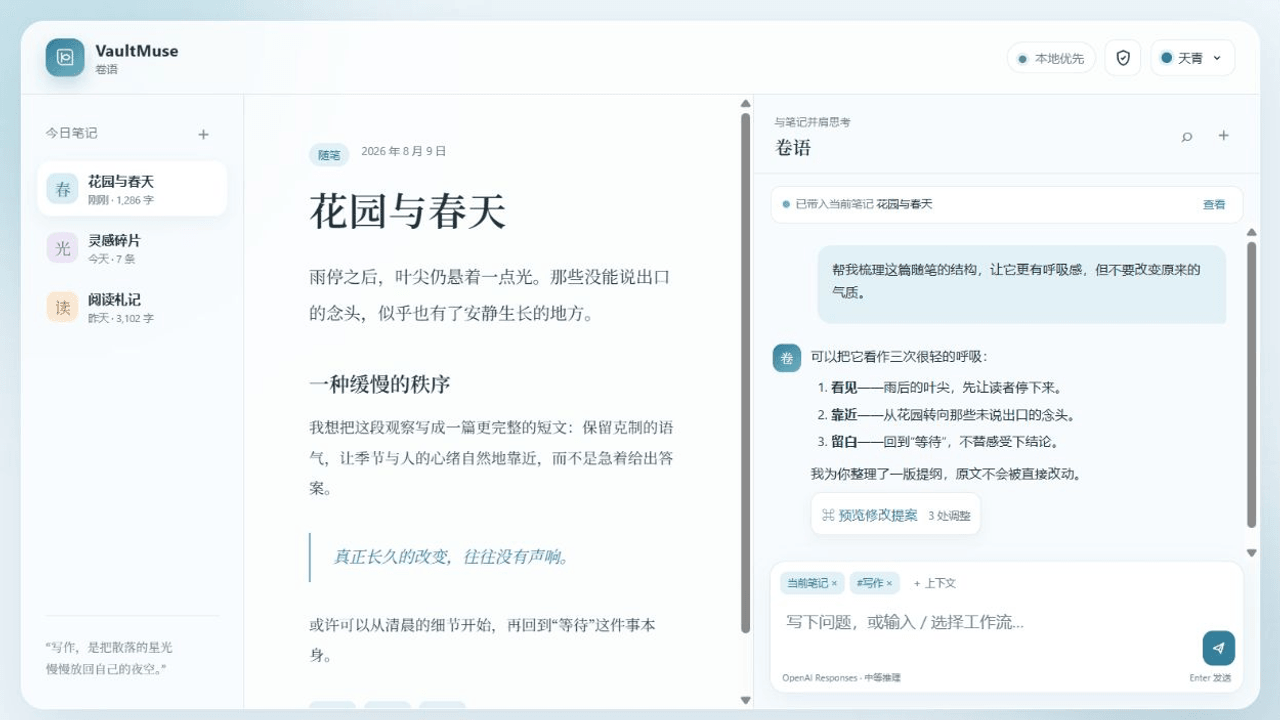
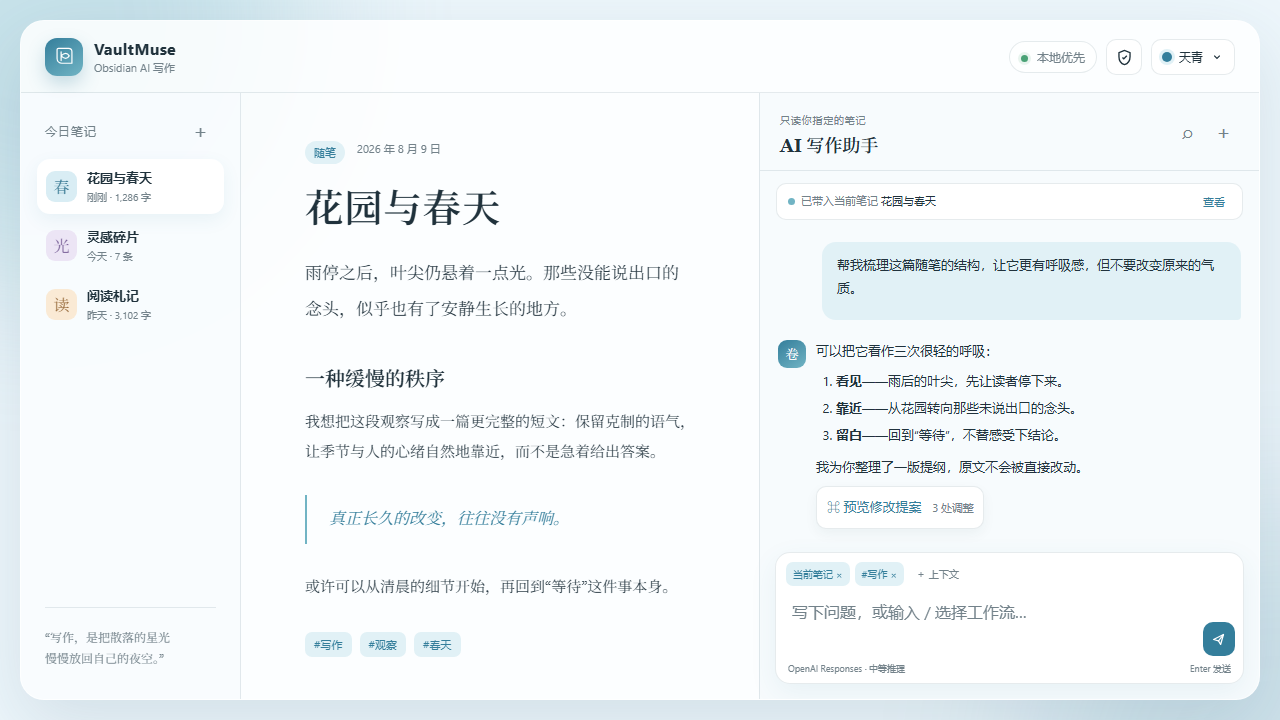
docs: 重写全部面向读者的文案（主页、README、文档措辞与命名）

diff --git a/demo/index.html b/demo/index.html
@@ -6,7 +6,7 @@
     <meta name="description" content="VaultMuse — 在笔记与灵感之间，让 AI 成为克制、透明的同行者。" />
     <meta name="color-scheme" content="light dark" />
     <meta http-equiv="Content-Security-Policy" content="default-src 'self'; script-src 'self'; style-src 'self'; img-src 'self'; connect-src 'none'; object-src 'none'; base-uri 'none'; form-action 'none'" />
-    <title>VaultMuse · 卷语</title>
+    <title>Obsidian AI 写作助手 · 演示</title>
     <link rel="icon" href="./favicon.svg" type="image/svg+xml" />
     <link rel="icon" href="./favicon.ico" sizes="any" />
     <link rel="apple-touch-icon" href="./apple-touch-icon.png" />
@@ -21,7 +21,7 @@
           <span class="brand-mark" aria-hidden="true">
             <svg viewBox="0 0 40 40"><path d="M11 8h15a5 5 0 0 1 5 5v17H16a7 7 0 0 1-7-7V10a2 2 0 0 1 2-2Z"/><path d="M15 13v13m0-7c5-5 9-5 12 0-3 5-7 5-12 0Z"/></svg>
           </span>
-          <span><b>VaultMuse</b><small>卷语</small></span>
+          <span><b>VaultMuse</b><small>Obsidian AI 写作</small></span>
         </a>
         <div class="top-actions">
           <span class="privacy-pill"><i></i> 本地优先</span>
@@ -67,7 +67,7 @@
 
         <section class="chat-panel" aria-label="AI 对话演示">
           <div class="chat-head">
-            <div><small>与笔记并肩思考</small><h2>卷语</h2></div>
+            <div><small>只读你指定的笔记</small><h2>AI 写作助手</h2></div>
             <div class="chat-actions"><button title="对话历史" aria-label="对话历史">⌕</button><button title="新对话" aria-label="新对话">＋</button></div>
           </div>
           <div class="context-line"><span class="pulse"></span>已带入当前笔记 <b>花园与春天</b><button id="contextButton">查看</button></div>

diff --git a/README_EN.md b/README_EN.md
@@ -1,50 +1,77 @@
 <div align="center">
 
-# VaultMuse / 卷语 — Obsidian AI Chat & Writing
+# Obsidian AI writer
 
-**A quiet, transparent AI companion between your notes and your next thought.**
+[中文](./README.md) · English
 
-[![CI](https://github.com/ferretgeek/VaultMuse/actions/workflows/ci.yml/badge.svg)](https://github.com/ferretgeek/VaultMuse/actions/workflows/ci.yml)
-[![CodeQL](https://github.com/ferretgeek/VaultMuse/actions/workflows/codeql.yml/badge.svg)](https://github.com/ferretgeek/VaultMuse/actions/workflows/codeql.yml)
+[![CI](https://github.com/ferretgeek/obsidian-ai-writer/actions/workflows/ci.yml/badge.svg)](https://github.com/ferretgeek/obsidian-ai-writer/actions/workflows/ci.yml)
+[![CodeQL](https://github.com/ferretgeek/obsidian-ai-writer/actions/workflows/codeql.yml/badge.svg)](https://github.com/ferretgeek/obsidian-ai-writer/actions/workflows/codeql.yml)
 [![MIT](https://img.shields.io/badge/license-MIT-3f8268.svg)](./LICENSE)
 [![Obsidian](https://img.shields.io/badge/Obsidian-1.8.7%2B-7c5ce7.svg)](https://obsidian.md/)
 
-[简体中文](./README.md) · [Privacy](./docs/PRIVACY.md) · [Install & deploy](./docs/DEPLOYMENT_EN.md) · [Live demo](https://ferretgeek.github.io/VaultMuse/)
+[Live demo](https://ferretgeek.github.io/obsidian-ai-writer/) · [Privacy](./docs/PRIVACY.md) · [Installation](./docs/DEPLOYMENT.md)
 
 </div>
 
-![VaultMuse interface preview](./docs/images/dashboard.png)
+![Interface preview](./docs/images/dashboard.png)
 
-VaultMuse is a desktop Obsidian AI conversation plugin. It reads only the notes, tags, selections, or images you explicitly attach. An answer becomes a reviewable proposal before it can change your vault.
+> Chat with a model over the notes *you* picked. Whatever it wants to change, you see first.
 
-## At a glance
+## Why this exists
 
-- **Visible context** — inspect and remove every item used for the current turn; no whole-vault crawl.
-- **Guarded writing** — insert, append, replace, create, and multi-file diffs require confirmation and offer undo.
-- **Provider freedom** — OpenAI Responses, OpenAI-compatible Chat Completions, Anthropic Messages, and local Ollama.
-- **Sensitive by default** — API keys and custom headers stay memory-only unless you opt in; remote endpoints require HTTPS and unsafe headers are rejected.
-- **A complete workspace** — streaming, collapsible reasoning, images, searchable/pinned/exportable history, slash workflows, and prompt-cache-aware requests.
-- **Four global themes** — Sky, Jade, Sunset, and Graphite; persisted from the top-right picker, with Graphite fixed at `#17191d`.
+Most AI note plugins do two things that make them hard to trust.
 
-## Install
+**They read your whole vault.** You wanted to talk about today's meeting note, and three years of journals, financial tables, and private lists went along as context.
 
-Download `main.js`, `manifest.json`, and `styles.css` from [Releases](https://github.com/ferretgeek/VaultMuse/releases), then place them in:
+**They edit your files directly.** You asked it to tidy up a paragraph and came back to a rewritten note with no diff to review.
+
+This plugin inverts both.
+
+**You choose the context.** These notes, this tag, this selection, this image — every item is listed beside the conversation and can be removed at any time. **It never scans the vault.**
+
+**Write-back has a gate.** Insert, append, overwrite, create, and multi-file edits all show a diff first and only land after you confirm. Mistakes are undoable, and deletions go to Obsidian's trash rather than being destroyed.
+
+## What it does
+
+- **Transparent context** — everything used this turn is visible and removable, item by item.
+- **Gated write-back** — insert, append, overwrite, create, and multi-file diffs all require confirmation, and mistakes are undoable.
+- **Bring your own endpoint** — OpenAI Responses, any OpenAI-compatible Chat Completions API, Anthropic Messages, or a local Ollama.
+- **Restrained with secrets** — API keys and custom headers stay in memory by default, remote endpoints are forced to HTTPS, and dangerous headers are rejected.
+- **A complete workbench** — streaming replies, collapsible reasoning, image understanding, searchable / pinned / exportable history, slash workflows, and prompt caching.
+- **Four global themes** — Azure, Emerald, Sunset, and deep gray, switchable from the top right and persisted, with the dark background fixed at `#17191d`.
+
+## Installation
+
+Download `main.js`, `manifest.json`, and `styles.css` from [Releases](https://github.com/ferretgeek/obsidian-ai-writer/releases) into:
 
 ```text
-<your Vault>/.obsidian/plugins/vault-muse/
+<your vault>/.obsidian/plugins/vault-muse/
 ```
 
-Restart Obsidian, enable **VaultMuse** under Community plugins, and add a model profile. Keep “Store sensitive settings locally” disabled unless you accept plaintext-at-rest storage. See [installation and deployment](./docs/DEPLOYMENT_EN.md).
+Restart Obsidian and enable the plugin under Settings → Community plugins, then add a model configuration.
 
-## Security boundary
+> **Leave "store sensitive settings locally" off** if you can — that keeps API keys in memory only, re-entered after an Obsidian restart. Turning it on is a reasonable convenience trade, as long as you know it means the key is written into the vault's plugin data.
 
-- Chat never edits files by itself; only an explicitly confirmed action writes.
-- Traversal, absolute paths, `.trash`, and the vault configuration directory are blocked.
-- Deletions use Obsidian's trash instead of permanent removal.
-- Conversations and settings live in the current vault's plugin data and can be cleared from Advanced settings.
-- VaultMuse does not proxy or conceal model traffic. Your selected provider receives the content you explicitly send.
+Full steps in [installation and deployment](./docs/DEPLOYMENT.md).
 
-Read [privacy and data flow](./docs/PRIVACY.md) and the [security policy](./SECURITY.md) before use.
+## Worth noting technically
+
+**Write paths are allowlisted.** Path traversal, absolute paths, `.trash`, and the vault config directory are all blocked. A plugin that can be talked into writing to `.obsidian/` can rewrite every setting you have.
+
+**API keys and custom headers stay in memory by default.** Remote endpoints are forced to HTTPS, and headers usable for request smuggling or privilege escalation are rejected rather than forwarded verbatim.
+
+**Deletions only go to trash.** Nothing is permanently destroyed — the cost of one bad model call shouldn't be an unrecoverable note.
+
+**The four protocols are implemented separately.** OpenAI Responses, OpenAI-compatible Chat Completions, Anthropic Messages, and Ollama each have their own request and stream-parsing paths rather than being forced through one "compatibility layer," so each provider's reasoning, caching, and image semantics map correctly.
+
+**`npm run check` is a real gate.** It runs ESLint, 55 pure-logic tests, strict type checking, and a production build in sequence. The build emits a local `main.js` only; it copies into a test vault solely when the developer explicitly sets `VAULT_MUSE_DEPLOY_DIR` — so running the tests never touches your real vault.
+
+## What it doesn't do
+
+- Chatting alone never modifies a file; only actions you confirm are written.
+- It doesn't scan the vault.
+- **It doesn't proxy, host, or hide your model requests.** Whichever provider you choose still receives whatever you deliberately send — no plugin can change that, and saying so plainly matters more than being vague about it.
+- Conversations and settings live in the current vault's plugin data and can be cleared in one action from advanced settings.
 
 ## Development
 
@@ -54,8 +81,12 @@ npm run check
 npm run package:release
 ```
 
-`npm run check` runs ESLint, 55 pure-logic tests, strict type checks, and a production build. Builds stay in the repository by default; files are copied to a test vault only when `VAULT_MUSE_DEPLOY_DIR` is explicitly set.
+## More documentation
 
-## Origin and license
+[Installation and deployment](./docs/DEPLOYMENT_EN.md) · [Architecture](./docs/ARCHITECTURE.md) · [Privacy and data flow](./docs/PRIVACY.md) · [Release audit](./docs/发布审计.md) · [Changelog](./CHANGELOG.md) · [Contributing](./CONTRIBUTING.md) · [Security policy](./SECURITY.md)
 
-VaultMuse is an independent derivative of the MIT-licensed `grok-obsidian` project. Original copyright and provenance are preserved in [NOTICE](./NOTICE.md). Released under the [MIT License](./LICENSE).
+## Provenance and license
+
+This is an independent derivative of the MIT-licensed `grok-obsidian`, retaining the original author's copyright and attribution — see [NOTICE](./NOTICE.md).
+
+Released under the [MIT License](./LICENSE). No affiliation with or endorsement by Obsidian, OpenAI, or Anthropic.

diff --git a/README.md b/README.md
@@ -1,50 +1,77 @@
 <div align="center">
 
-# 卷语 / VaultMuse — Obsidian AI 对话与写作
+# Obsidian AI 写作助手
 
-**在笔记与灵感之间，让 AI 成为克制、透明的同行者。**
+中文 · [English](./README_EN.md)
 
-[![CI](https://github.com/ferretgeek/VaultMuse/actions/workflows/ci.yml/badge.svg)](https://github.com/ferretgeek/VaultMuse/actions/workflows/ci.yml)
-[![CodeQL](https://github.com/ferretgeek/VaultMuse/actions/workflows/codeql.yml/badge.svg)](https://github.com/ferretgeek/VaultMuse/actions/workflows/codeql.yml)
+[![CI](https://github.com/ferretgeek/obsidian-ai-writer/actions/workflows/ci.yml/badge.svg)](https://github.com/ferretgeek/obsidian-ai-writer/actions/workflows/ci.yml)
+[![CodeQL](https://github.com/ferretgeek/obsidian-ai-writer/actions/workflows/codeql.yml/badge.svg)](https://github.com/ferretgeek/obsidian-ai-writer/actions/workflows/codeql.yml)
 [![MIT](https://img.shields.io/badge/license-MIT-3f8268.svg)](./LICENSE)
 [![Obsidian](https://img.shields.io/badge/Obsidian-1.8.7%2B-7c5ce7.svg)](https://obsidian.md/)
 
-[English](./README_EN.md) · [隐私边界](./docs/PRIVACY.md) · [安装与部署](./docs/DEPLOYMENT.md) · [在线演示](https://ferretgeek.github.io/VaultMuse/)
+[在线演示](https://ferretgeek.github.io/obsidian-ai-writer/) · [隐私边界](./docs/PRIVACY.md) · [安装与部署](./docs/DEPLOYMENT.md)
 
 </div>
 
-![VaultMuse 界面预览](./docs/images/dashboard.png)
+![界面预览](./docs/images/dashboard.png)
 
-VaultMuse 是一款桌面端 Obsidian AI 对话插件。它只读取你主动选择的笔记、标签、选区或图片；回答先成为可审阅的提案，经确认后才写回 Vault。
+> 就着你指定的那几篇笔记和 AI 聊。它想改什么，先给你看。
 
-## 一眼看懂
+## 为什么会需要它
 
-- **上下文透明**：本轮用了什么，逐项可见、可移除；不会扫描整个 Vault。
-- **写回有门**：插入、追加、覆盖、新建与多文件 Diff 都需确认，误操作可撤销。
-- **接口自由**：支持 OpenAI Responses、OpenAI 兼容 Chat Completions、Anthropic Messages 与本地 Ollama。
-- **敏感信息克制**：API Key 与自定义 Headers 默认仅驻留内存；远程接口强制 HTTPS；危险 Headers 会被拒绝。
-- **完整工作台**：流式回复、思考折叠、图片理解、历史搜索/置顶/导出、斜杠工作流与提示词缓存。
-- **四套全局主题**：天青、翡翠、晚霞、深灰；右上角切换并持久保存，深灰背景固定为 `#17191d`。
+大部分 AI 笔记插件有两个让人不敢用的地方：
+
+**一是它读了你整个库。** 你只想聊今天这篇会议记录，它把三年的日记、财务表格和私人清单一起当成了上下文。
+
+**二是它直接改了你的文件。** 你说"帮我理一下这段"，回头发现整篇被重写了，而且没有 diff 可看。
+
+这个插件反过来做。
+
+**上下文是你挑的。** 这几篇笔记、这个标签、这段选中的文字、这张图——每一项都列在对话旁边，随时能删掉。**它不会扫描整个 Vault。**
+
+**写回有一道门。** 插入、追加、覆盖、新建、多文件修改，都先给你一份 diff，确认了才落盘。改错了能撤销，删除只进 Obsidian 废纸篓，不做永久删除。
+
+## 它能做什么
+
+- **上下文透明** — 本轮用了什么，逐项可见、可移除。
+- **写回有门** — 插入、追加、覆盖、新建与多文件 Diff 都需要确认，误操作可撤销。
+- **接口自由** — 支持 OpenAI Responses、任何 OpenAI 兼容的 Chat Completions、Anthropic Messages，以及本地跑的 Ollama。
+- **敏感信息克制** — API Key 与自定义 Header 默认仅驻留内存；远程接口强制 HTTPS；危险 Header 会被拒绝。
+- **完整工作台** — 流式回复、思考过程折叠、图片理解、历史搜索 / 置顶 / 导出、斜杠工作流与提示词缓存。
+- **四套全局主题** — 天青、翡翠、晚霞、深灰；右上角切换并持久保存，深灰背景固定为 `#17191d`。
 
 ## 安装
 
-从 [Releases](https://github.com/ferretgeek/VaultMuse/releases) 下载 `main.js`、`manifest.json`、`styles.css`，放入：
+从 [Releases](https://github.com/ferretgeek/obsidian-ai-writer/releases) 下载 `main.js`、`manifest.json`、`styles.css`，放进：
 
 ```text
 <你的 Vault>/.obsidian/plugins/vault-muse/
 ```
 
-重启 Obsidian，在“设置 → 社区插件”中启用 **VaultMuse**。随后添加模型配置；API Key 建议保持“在本地保存敏感配置”关闭。完整步骤见[安装与部署](./docs/DEPLOYMENT.md)。
+重启 Obsidian，在「设置 → 社区插件」中启用。然后添加模型配置。
 
-## 安全边界
+> **建议保持"在本地保存敏感配置"关闭**——这样 API Key 只在内存里，Obsidian 重启后重新输入。如果你更看重方便，可以打开，但要清楚这意味着 Key 会写进 Vault 的插件数据。
 
-- 聊天不会自行修改文件；只有明确确认的动作会写入。
-- 路径穿越、绝对路径、`.trash` 与 Vault 配置目录被禁止写入。
-- 删除操作进入 Obsidian 废纸篓，不做永久删除。
-- 对话与设置保存在当前 Vault 的插件数据中；可在高级设置一键清除。
-- 本项目不会代理、托管或隐藏你的模型请求。你选择的接口服务商仍会接收主动发送的内容。
+完整步骤见[安装与部署](./docs/DEPLOYMENT.md)。
 
-发布前请阅读[隐私与数据流](./docs/PRIVACY.md)和[安全策略](./SECURITY.md)。
+## 技术上值得一提的地方
+
+**写入路径是白名单式的。** 路径穿越、绝对路径、`.trash` 和 Vault 配置目录都被禁止写入。一个能被诱导写 `.obsidian/` 的插件，等于能改你的所有配置。
+
+**API Key 与自定义 Header 默认只在内存。** 远程接口强制 HTTPS；能用来做请求走私或权限提升的危险 Header 直接拒绝，而不是原样转发。
+
+**删除只进废纸篓。** 不做永久删除——AI 判断错了一次，代价不该是一篇不可恢复的笔记。
+
+**四种接口协议是分别实现的。** OpenAI Responses、OpenAI 兼容 Chat Completions、Anthropic Messages 和 Ollama 各有自己的请求 / 流式解析路径，不是靠一个"兼容层"硬套，所以每家的思考过程、缓存和图片语义都能正确对上。
+
+**`npm run check` 是真门禁。** 依次跑 ESLint、55 个纯逻辑测试、严格类型检查和生产构建。构建默认只生成本地 `main.js`，只有开发者显式设置 `VAULT_MUSE_DEPLOY_DIR` 时才复制到测试 Vault——避免"跑一下测试就把你的真实 Vault 改了"。
+
+## 它不做什么
+
+- 聊天本身不会修改任何文件，只有你明确确认的动作会写入。
+- 不扫描整个 Vault。
+- **不代理、不托管、不隐藏你的模型请求。** 你选的接口服务商仍然会收到你主动发送的内容——这一点没有任何插件能替你规避，说清楚比含糊更重要。
+- 对话与设置保存在当前 Vault 的插件数据里，可在高级设置一键清除。
 
 ## 开发
 
@@ -54,8 +81,12 @@ npm run check
 npm run package:release
 ```
 
-`npm run check` 会依次执行 ESLint、55 个纯逻辑测试、严格类型检查与生产构建。构建默认只生成本地 `main.js`；仅当开发者显式设置 `VAULT_MUSE_DEPLOY_DIR` 时才复制到测试 Vault。
+## 更多文档
+
+[安装与部署](./docs/DEPLOYMENT.md) · [架构](./docs/ARCHITECTURE.md) · [隐私与数据流](./docs/PRIVACY.md) · [发布审计](./docs/发布审计.md) · [版本变更](./CHANGELOG.md) · [参与开发](./CONTRIBUTING.md) · [安全策略](./SECURITY.md)
 
 ## 来源与许可
 
-VaultMuse 是基于 MIT 项目 `grok-obsidian` 的独立衍生作品，已保留原作者版权与来源说明，详见 [NOTICE](./NOTICE.md)。本项目以 [MIT License](./LICENSE) 发布。
+本项目是基于 MIT 项目 `grok-obsidian` 的独立衍生作品，保留原作者版权与来源说明，详见 [NOTICE](./NOTICE.md)。
+
+以 [MIT License](./LICENSE) 发布。与 Obsidian、OpenAI、Anthropic 均无隶属或背书关系。

diff --git a/docs/PRIVACY.md b/docs/PRIVACY.md
@@ -2,7 +2,7 @@
 
 ## 中文
 
-VaultMuse 在 Obsidian 桌面端本地运行，不提供中转服务器、遥测、分析或远程前端资源。
+本插件在 Obsidian 桌面端本地运行，不提供中转服务器、遥测、分析或远程前端资源。
 
 | 数据 | 去向 | 默认持久化 |
 |---|---|---|
@@ -18,8 +18,8 @@ VaultMuse 在 Obsidian 桌面端本地运行，不提供中转服务器、遥测
 
 ## English
 
-VaultMuse runs locally inside desktop Obsidian. It has no relay server, telemetry, analytics, or remote frontend assets.
+The plugin runs locally inside desktop Obsidian. It has no relay server, telemetry, analytics, or remote frontend assets.
 
 Only explicitly selected notes, expanded tags, selections, images, prompts, and conversation history are sent to the configured model endpoint. API keys and custom headers remain in memory by default; opting into local storage writes them as plaintext to the vault's plugin `data.json`. Conversations and ordinary settings are local and can be cleared in one action. Screenshot attachments use the current vault and recoverable trash.
 
-VaultMuse never indexes the whole vault in the background. Per-turn file and character limits are enforced, remote endpoints require HTTPS, and loopback HTTP remains available for local models. Remote resources in model Markdown never load automatically; external URLs are restored only as click links. Provider JSON, SSE, and network errors are reduced to safe summaries before display or persistence. Your chosen model provider may still retain explicitly sent content under its own policy.
+The plugin never indexes the whole vault in the background. Per-turn file and character limits are enforced, remote endpoints require HTTPS, and loopback HTTP remains available for local models. Remote resources in model Markdown never load automatically; external URLs are restored only as click links. Provider JSON, SSE, and network errors are reduced to safe summaries before display or persistence. Your chosen model provider may still retain explicitly sent content under its own policy.

diff --git a/docs/DEPLOYMENT.md b/docs/DEPLOYMENT.md
@@ -2,10 +2,10 @@
 
 ## 安装插件（本地）
 
-1. 从 [Releases](https://github.com/ferretgeek/VaultMuse/releases) 下载同一版本的 `main.js`、`manifest.json`、`styles.css`。
+1. 从 [Releases](https://github.com/ferretgeek/obsidian-ai-writer/releases) 下载同一版本的 `main.js`、`manifest.json`、`styles.css`。
 2. 新建 `<Vault>/.obsidian/plugins/vault-muse/`，放入这三个文件。
-3. 重启 Obsidian，在“设置 → 社区插件”启用 VaultMuse。
-4. 在 VaultMuse 设置添加模型。远程接口使用 HTTPS；本地 Ollama 可用 `http://127.0.0.1:11434/v1`。
+3. 重启 Obsidian，在“设置 → 社区插件”中启用本插件。
+4. 在插件设置里添加模型。远程接口使用 HTTPS；本地 Ollama 可用 `http://127.0.0.1:11434/v1`。
 
 插件运行于桌面 Obsidian，不是 Web 服务，因此无需也不应部署到公网服务器。若希望在服务器展示界面，只部署下面的**无网络、合成数据演示页**。
 
@@ -47,4 +47,4 @@ npm run build
 - 写入提案失败：确认目标是 Vault 内允许的相对路径，且不是 `.obsidian`、`.trash` 或越界路径。
 - 演示页健康：静态首页和图标返回成功即可；它没有 API、模型请求、插件状态或用户数据，不能用于验证真实插件功能。
 - 卸载：先在 Obsidian 禁用插件并退出，再删除 `.obsidian/plugins/vault-muse/`。这会删除 `data.json` 中的对话/设置，但不会回滚已确认写入的笔记或自动删除 Vault 附件；按备份决定另行处理。
-- 服务器只需停止并删除合成演示页/容器。不存在可部署的 VaultMuse 服务端、同步端或 AI 中继；把演示页上线不等于服务器版产品。
+- 服务器只需停止并删除合成演示页/容器。不存在可部署的服务端、同步端或 AI 中继；把演示页上线不等于服务器版产品。

diff --git a/docs/DEPLOYMENT_EN.md b/docs/DEPLOYMENT_EN.md
@@ -2,9 +2,9 @@
 
 ## Install the plugin locally
 
-1. Download matching `main.js`, `manifest.json`, and `styles.css` files from [Releases](https://github.com/ferretgeek/VaultMuse/releases).
+1. Download matching `main.js`, `manifest.json`, and `styles.css` files from [Releases](https://github.com/ferretgeek/obsidian-ai-writer/releases).
 2. Create `<Vault>/.obsidian/plugins/vault-muse/` and place all three files inside.
-3. Restart Obsidian and enable VaultMuse under Community plugins.
+3. Restart Obsidian and enable the plugin under Community plugins.
 4. Add a model profile. Use HTTPS remotely; local Ollama may use `http://127.0.0.1:11434/v1`.
 
 The plugin runs inside desktop Obsidian and is not a web service. Do not expose it as a public server. For portfolio hosting, deploy only the synthetic, no-network demo below.
@@ -42,4 +42,4 @@ Settings and conversations live in `<Vault>/.obsidian/plugins/vault-muse/data.js
 - Rejected edits usually indicate a forbidden config/trash path, an absolute path, or traversal outside the vault.
 - The hosted demo is healthy when its static page and icons load. It has no API, model calls, plugin state, or user data and cannot validate real plugin behavior.
 - To uninstall, disable the plugin, exit Obsidian, and remove `.obsidian/plugins/vault-muse/`. This removes settings/history but does not undo confirmed note edits or automatically delete vault attachments.
-- Server removal only stops/deletes the synthetic demo. There is no deployable VaultMuse backend, sync service, or AI relay; hosting the demo is not a server edition.
+- Server removal only stops/deletes the synthetic demo. There is no deployable backend, sync service, or AI relay; hosting the demo is not a server edition.

diff --git a/docs/发布审计.md b/docs/发布审计.md
@@ -1,4 +1,4 @@
-# VaultMuse 1.0.1 发布审计
+# Obsidian AI 写作助手 1.0.1 发布审计
 
 审计日期：2026-08-09
 范围：插件源码、全部可达历史与标签、依赖、构建与发布资产、交互演示、图片、文档和 GitHub 设置。
@@ -20,8 +20,8 @@
 ## 发布门禁
 
 - 当前版本：`1.0.1`
-- Release：<https://github.com/ferretgeek/VaultMuse/releases/tag/1.0.1>
-- CI：<https://github.com/ferretgeek/VaultMuse/actions>
-- 在线演示：<https://ferretgeek.github.io/VaultMuse/>
+- Release：<https://github.com/ferretgeek/obsidian-ai-writer/releases/tag/1.0.1>
+- CI：<https://github.com/ferretgeek/obsidian-ai-writer/actions>
+- 在线演示：<https://ferretgeek.github.io/obsidian-ai-writer/>
 
 发布完成标准是三个插件资产由同一已验证输入构建、哈希可复核，Release 不可变，CI/CodeQL 全绿且公开新鲜克隆双扫描为 0。

diff --git a/CHANGELOG.md b/CHANGELOG.md
@@ -15,7 +15,7 @@
 
 ## 1.0.0 — 2026-08-09
 
-- Rebuilt the plugin as VaultMuse with explicit context, guarded note editing, recoverable deletion, and independent provider profiles.
+- Rebuilt the plugin with explicit context, guarded note editing, recoverable deletion, and independent provider profiles.
 - Added OpenAI Responses, OpenAI-compatible Chat Completions, Anthropic Messages, local endpoints, streaming, reasoning controls, image context, history, and prompt-cache-aware requests.
 - Hardened endpoint, header, response, file-path, persistence, and error-redaction boundaries.
 - Made API keys and custom headers memory-only by default and added a full local-data reset.

diff --git a/AGENTS.md b/AGENTS.md
@@ -1,4 +1,4 @@
-# VaultMuse project rules
+# Obsidian AI writer — project rules
 
 - Read the workspace root `README.md`, this file, and both project READMEs before changes.
 - Preserve the product boundary: desktop Obsidian only; explicit per-turn context; confirm-before-write; recoverable trash; no whole-vault crawling, background indexing, telemetry, remote assets, credential collection, or hidden proxy.
